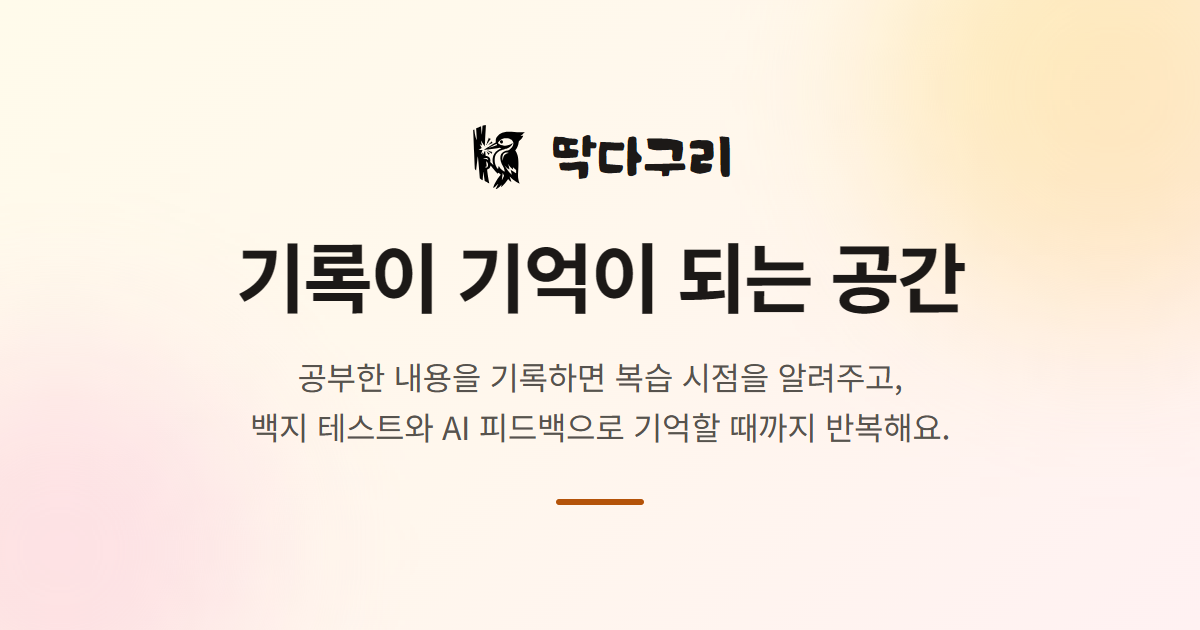
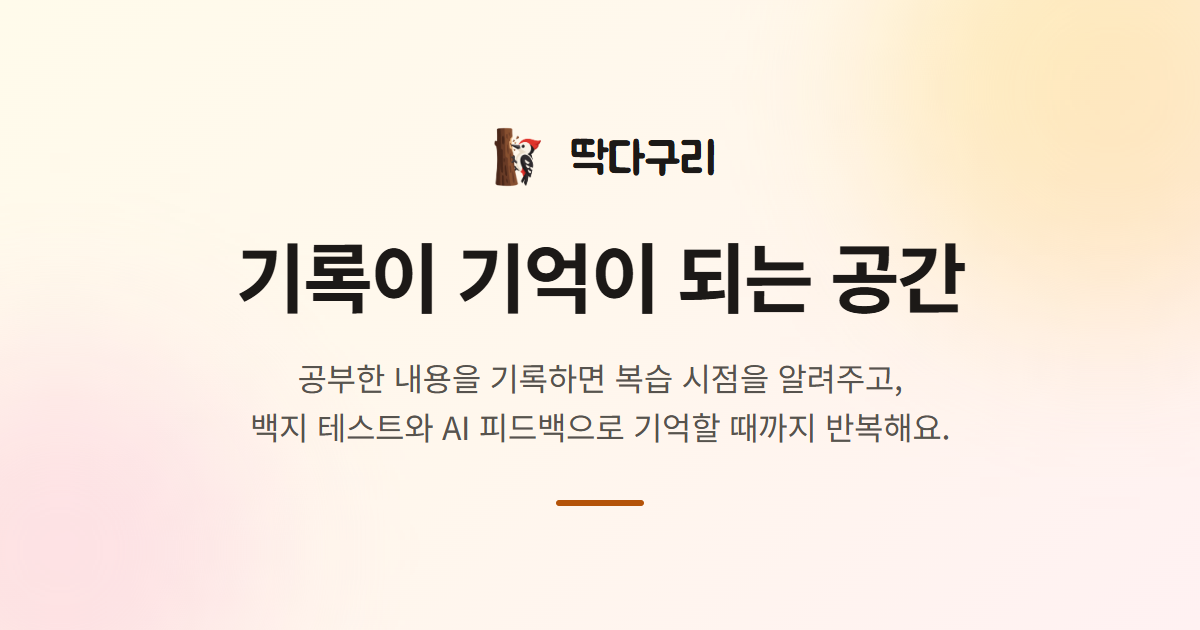
feat: #370 - 딱다구리 브랜드 자산 및 SEO 개선

diff --git a/src/features/landing/LearningFlowSection.tsx b/src/features/landing/LearningFlowSection.tsx
@@ -25,9 +25,14 @@ const mockupByStep = {
 
 /*
  * 아래 목업 셋은 루트에 `aria-hidden`을 건다. 실제 화면 마크업을 그대로 옮기느라
- * `nav`·`h3`·`ul`이 들어 있는데, 장식용 스크린샷이 랜드마크 목록과 제목 개요에
- * 섞이면 랜딩에 진짜 노트와 백지 테스트가 있는 것처럼 읽힌다. 안쪽 컨트롤이
- * 전부 span이라 포커스 가능한 요소가 없어 숨겨도 잃는 게 없다.
+ * `nav`·`ul`이 들어 있는데, 장식용 스크린샷이 랜드마크 목록에 섞이면 랜딩에 진짜
+ * 노트와 백지 테스트가 있는 것처럼 읽힌다. 안쪽 컨트롤이 전부 span이라 포커스
+ * 가능한 요소가 없어 숨겨도 잃는 게 없다.
+ *
+ * 목업 속 노트 제목은 heading 태그를 쓰지 않고 `p`에 스타일만 준다. `aria-hidden`은
+ * 접근성 트리에서만 빼는 속성이라 크롤러의 제목 개요에는 그대로 남는데, 그러면
+ * 랜딩의 소제목이 "임진왜란의 3대 대첩"·"이온 결합과 공유 결합" 같은 예시 데이터로
+ * 채워진다. 구글은 검색결과 제목을 만들 때 heading도 참고하므로 노이즈가 된다.
  */
 
 /** 목업 공통 브라우저 크롬. 캡처가 아니라 DOM이라 어떤 해상도에서도 선명하다. */
@@ -77,9 +82,9 @@ function NoteMockup() {
             <span className="min-w-0">다음 복습 일정: 내일 오전 09:00</span>
           </div>
 
-          <h3 className="mt-4 text-2xl font-bold text-foreground">
+          <p className="mt-4 text-2xl font-bold text-foreground">
             임진왜란의 3대 대첩
-          </h3>
+          </p>
 
           <div className="mt-5 flex flex-wrap items-center gap-2">
             <span className="inline-flex h-8 items-center gap-1.5 rounded-full bg-primary pl-2 pr-2.5 text-sm font-medium text-primary-foreground">
@@ -147,7 +152,7 @@ function NotificationMockup() {
         <p className="mb-2 text-xs text-muted-foreground">브라우저 알림</p>
         <div className="flex items-start gap-3 rounded-xl border bg-card px-4 py-3.5 shadow-xl">
           <Image
-            src="/favicon.svg"
+            src="/woodpecker.png"
             alt=""
             width={20}
             height={20}
@@ -250,9 +255,9 @@ function TestMockup() {
             </span>
             <span>백지 테스트</span>
           </div>
-          <h3 className="text-xl font-bold text-foreground">
+          <p className="text-xl font-bold text-foreground">
             이온 결합과 공유 결합
-          </h3>
+          </p>
         </div>
 
         <div className="grid gap-3 md:grid-cols-2">

diff --git a/src/components/layout/Footer.tsx b/src/components/layout/Footer.tsx
@@ -4,11 +4,14 @@ import { LEGAL_CONTACT } from "@/lib/constants/legal";
 import { ROUTES } from "@/lib/constants/routes";
 
 const footerLinks = [
+  /* 앵커는 랜딩에만 있는데 이 푸터는 (legal) 레이아웃에도 붙는다. "#faq"처럼
+     경로 없이 두면 /terms에서 /terms#faq로 이동해 아무 데도 가지 않는다.
+     경로를 붙여 어느 페이지에서 눌러도 랜딩의 해당 섹션으로 가게 한다. */
   {
     title: "서비스",
     links: [
-      { label: "자주 묻는 질문", href: "#faq" },
-      { label: "기능 소개", href: "#features" },
+      { label: "자주 묻는 질문", href: `${ROUTES.HOME}#faq` },
+      { label: "기능 소개", href: `${ROUTES.HOME}#features` },
     ],
   },
   {

diff --git a/src/components/layout/Header.tsx b/src/components/layout/Header.tsx
@@ -29,7 +29,7 @@ export async function Header() {
       {/* 가운데 열은 auto — 1fr 균등 분할 시 768~917px 구간에서 NotesNav가 줄바꿈됨 */}
       <div className="flex justify-between md:grid md:grid-cols-[1fr_auto_1fr] items-center max-w-5xl mx-auto px-6 py-3.5">
         <Link href={ROUTES.HOME} className="flex items-center gap-2">
-          <Image src="/favicon.svg" alt="딱다구리" width={28} height={28} />
+          <Image src="/woodpecker.png" alt="딱다구리" width={28} height={28} />
           {/* font-brand: 브랜드 폰트(주아체), layout.tsx의 next/font/google 참조 */}
           <span className="font-brand text-2xl">딱다구리</span>
         </Link>

diff --git a/src/app/(auth)/agreements/page.tsx b/src/app/(auth)/agreements/page.tsx
@@ -8,8 +8,10 @@ import { validateRedirectPath } from "@/features/auth/lib/validateRedirectPath";
 import { ROUTES } from "@/lib/constants/routes";
 import { getUser } from "@/lib/supabase/getUser";
 
+/* 접미사를 직접 붙이지 않는다. 루트 레이아웃의 title.template이 "%s | 딱다구리"로
+   조합하므로, 여기에 브랜드를 적으면 "법적 문서 확인 | 딱다구리 | 딱다구리"가 된다. */
 export const metadata: Metadata = {
-  title: "법적 문서 확인 | 딱다구리",
+  title: "법적 문서 확인",
   robots: { index: false, follow: false },
 };
 

diff --git a/src/app/(legal)/LegalPage.tsx b/src/app/(legal)/LegalPage.tsx
@@ -37,7 +37,12 @@ export function LegalPage({
 
         <div className="relative mx-auto max-w-3xl px-6 py-20 text-center">
           <div className="mb-6 flex justify-center">
-            <Image src="/favicon.svg" alt="딱다구리" width={44} height={44} />
+            <Image
+              src="/woodpecker.png"
+              alt="딱다구리"
+              width={80}
+              height={80}
+            />
           </div>
           <p className="mb-3 text-xs font-semibold uppercase tracking-[0.2em] text-amber-700/70">
             법적 고지

diff --git a/src/sw.ts b/src/sw.ts
@@ -142,8 +142,8 @@ async function markNotificationReadOnClick(data: unknown) {
 self.addEventListener("push", (event) => {
   const { body, notificationData, tag, title } = getPushPayload(event.data);
   const options: NotificationOptions = {
-    icon: "/favicon.svg",
-    badge: "/favicon.svg",
+    icon: "/woodpecker.png",
+    badge: "/woodpecker.png",
     data: notificationData,
   };
 

diff --git a/src/app/layout.tsx b/src/app/layout.tsx
@@ -68,7 +68,7 @@ export const metadata: Metadata = {
   },
   description: landingDescription,
   icons: {
-    icon: "/favicon.svg",
+    icon: "/woodpecker.png",
   },
   ...buildSocialMetadata({
     title: SITE_TITLE,
